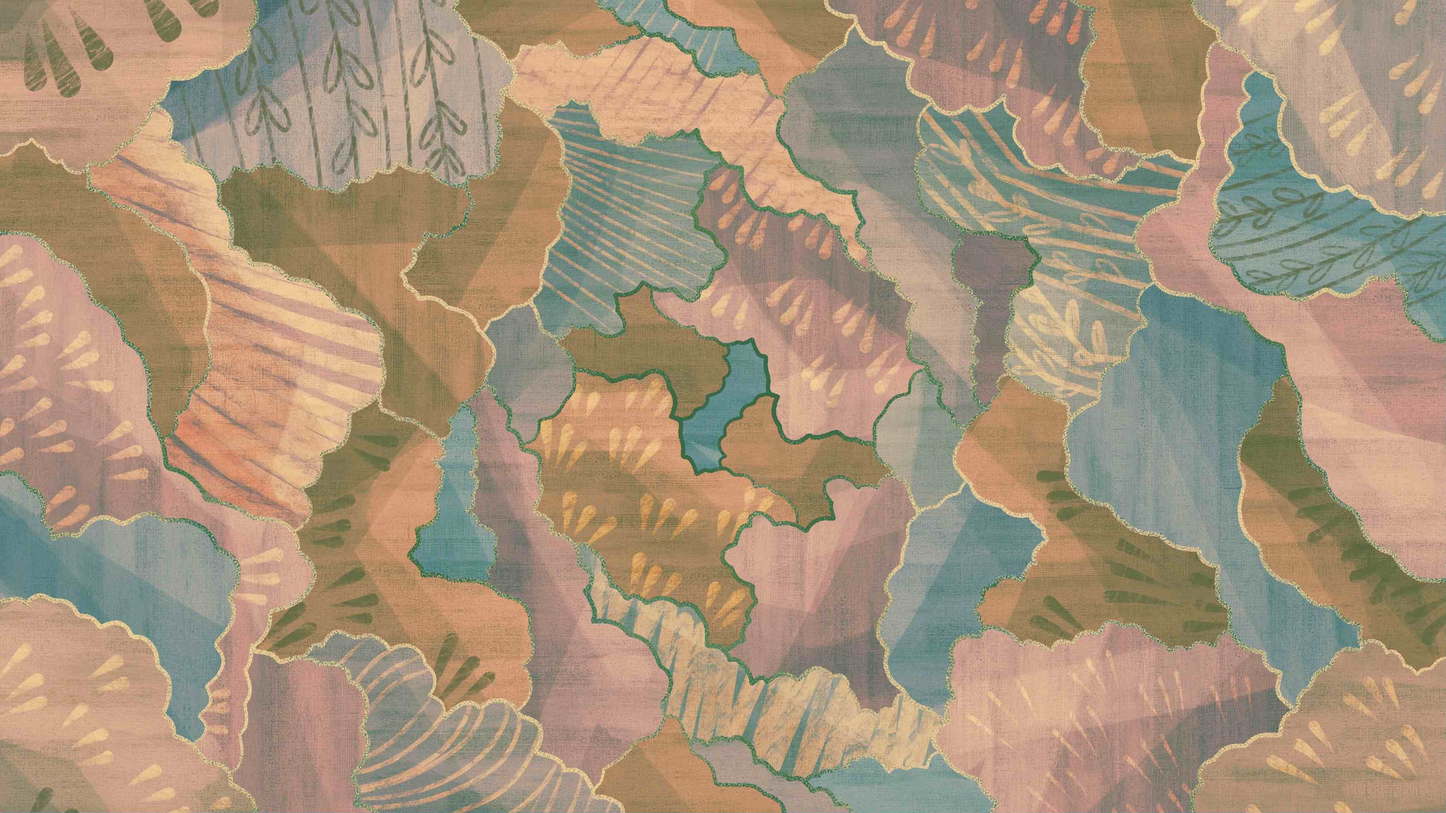
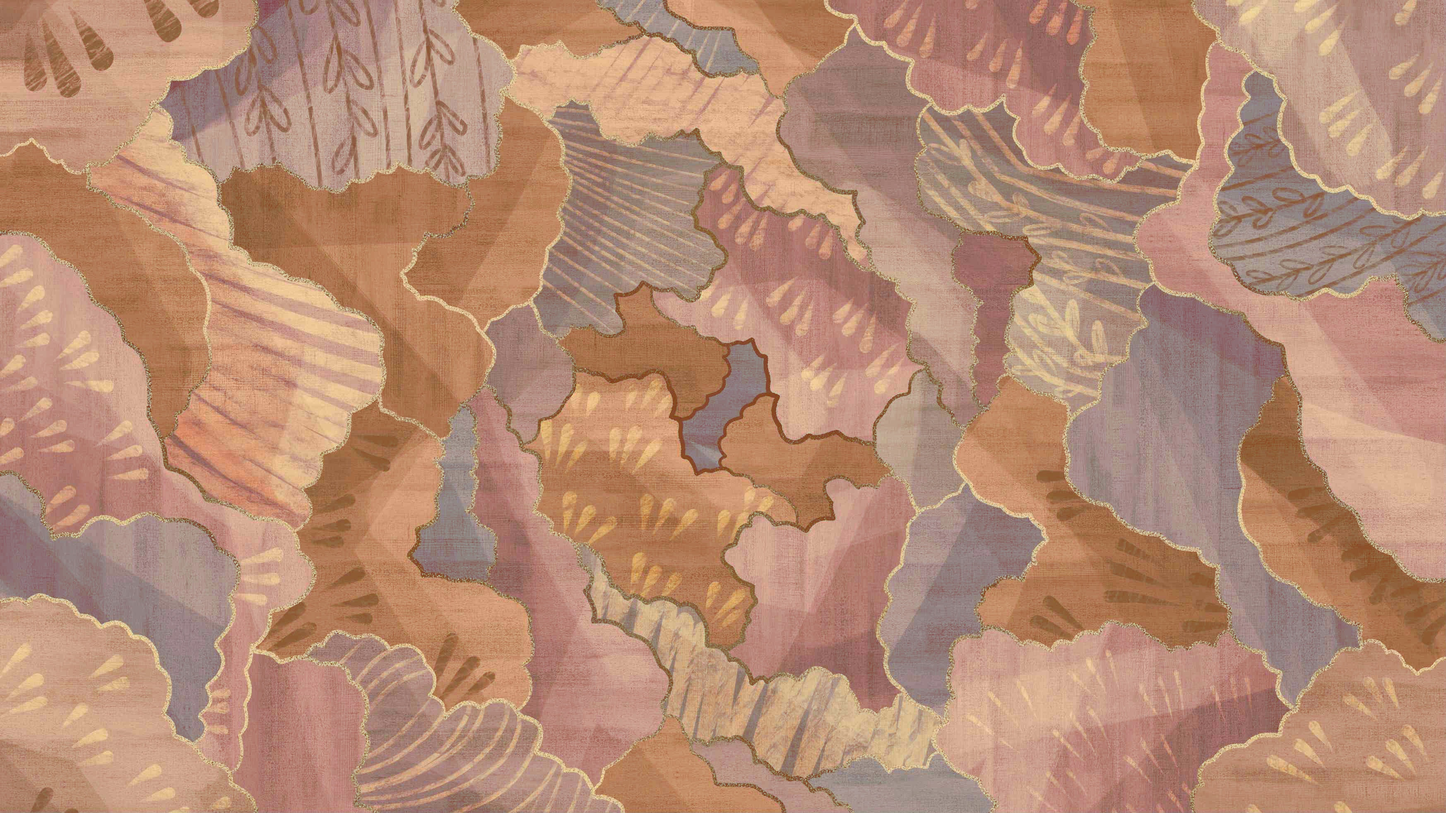
working sections, contact form wip

diff --git a/client/components/ContactForm.tsx b/client/components/ContactForm.tsx
@@ -3,37 +3,47 @@ import { useForm, ValidationError } from '@formspree/react'
 
 export default function ContactForm() {
 	const [state, handleSubmit] = useForm('movajqzq')
-	if (state.succeeded) {
-		return <p>Thanks for joining!</p>
-	}
 	return (
 		<>
-			<form
-				onSubmit={handleSubmit}
-				className={formStyling}
-				action="?"
-				method="POST"
-			>
-				<label htmlFor="email">Your Email Address</label>
-				<input id="email" type="email" name="email" />
-				<ValidationError
-					prefix="Email"
-					field="email"
-					errors={state.errors}
-				/>
+			<div className={sectionStyle}>
+				<img src="/photo_rose.JPG" />
+				<div className={formBoxStyle}>
+					{state.succeeded && (
+						<p>
+							Your message has been sent! A Rose will be in
+							contact with you shortly
+						</p>
+					)}
+					{!state.succeeded && (
+						<form
+							onSubmit={handleSubmit}
+							className={formStyling}
+							action="?"
+							method="POST"
+						>
+							<label htmlFor="email">Your Email Address</label>
+							<input id="email" type="email" name="email" />
+							<ValidationError
+								prefix="Email"
+								field="email"
+								errors={state.errors}
+							/>
 
-				<label>Your Message</label>
-				<textarea id="message" name="message" />
-				<ValidationError
-					prefix="Message"
-					field="message"
-					errors={state.errors}
-				/>
+							<label>Your Message</label>
+							<textarea id="message" name="message" />
+							<ValidationError
+								prefix="Message"
+								field="message"
+								errors={state.errors}
+							/>
 
-				<button type="submit" disabled={state.submitting}>
-					Whoosh!
-				</button>
-			</form>
+							<button type="submit" disabled={state.submitting}>
+								Whoosh!
+							</button>
+						</form>
+					)}
+				</div>
+			</div>
 		</>
 	)
 }
@@ -41,6 +51,25 @@ export default function ContactForm() {
 const formStyling = css({
 	display: 'flex',
 	flexDirection: 'column',
-	maxWidth: '40rem',
+	maxWidth: '50%',
 	padding: '2rem',
+	height: '20rem',
+})
+
+const formBoxStyle = css({
+	border: '1pt solid black',
+	width: '100%',
+	margin: '2rem',
+	display: 'flex',
+	justifyContent: 'center',
+	alignItems: 'center',
+})
+
+const sectionStyle = css({
+	display: 'flex',
+	flexDirection: 'row',
+	'& img': {
+		maxHeight: '20rem',
+		margin: '2rem',
+	},
 })

diff --git a/client/components/ArtBlock.tsx b/client/components/ArtBlock.tsx
@@ -2,31 +2,39 @@ import { css } from '@emotion/css'
 import { Spacing } from '../styles/stylingVariables'
 import { ReactNode } from 'react'
 import React from 'react'
+import { ImageInfo } from './HomePage'
+import ImageTile from './ImageTile'
 
 interface ArtBlockProps {
-	children: ReactNode
+	art: ImageInfo[]
+	backgroundColour: string
 }
 
 //the pictures either say portrait or landscape or square
 //they are set by height but there is more top margin for the landscape / square ones
+// they come through as props
 
-export default function ArtBlock({ children }: ArtBlockProps) {
+export default function ArtBlock({ art, backgroundColour }: ArtBlockProps) {
 	return (
 		<>
-			<div className={styles.all}>
-				{React.Children.map(children, (picture, index) => {
-					if (!picture || typeof picture !== 'object') return null
-					return <div key={index}>{picture}</div>
+			<div className={artTileStyle(backgroundColour)}>
+				{art.map((artwork, i) => {
+					return (
+						<div>
+							<ImageTile art={artwork} />
+						</div>
+					)
 				})}
 			</div>
 		</>
 	)
 }
 
-const styles = {
-	all: css({
-		maxHeight: '15rem',
-		backgroundColor: '#414b6f',
+const artTileStyle = (backgroundColour: string) => {
+	return css({
+		maxHeight: '25rem',
+		// backgroundColor: '#414b6f',
+		backgroundColor: backgroundColour,
 		display: 'flex',
 		justifyContent: 'center',
 		padding: 'auto',
@@ -34,16 +42,16 @@ const styles = {
 		paddingBottom: '1rem',
 		gap: '1rem',
 
-		'& > div': {
+		'& div': {
 			maxWidth: '25%',
 			aspectRatio: '1/1',
 			display: 'flex',
 			justifyContent: 'center',
 			alignItems: 'center',
 		},
-		'& > div > img': {
+		'& img': {
 			maxWidth: '100%',
 			maxHeight: '100%',
 		},
-	}),
+	})
 }

diff --git a/client/components/ImageTile.tsx b/client/components/ImageTile.tsx
@@ -1,33 +1,34 @@
 import { css } from '@emotion/css'
+import { ImageTypes, ImageInfo } from './HomePage'
 
 interface ImageTileProps {
-	url: string
-	type: imageTypes
+	art: ImageInfo
 }
-type imageTypes = 'portrait' | 'landscape' | 'square'
 
-export default function ImageTileProps({ url, type }: ImageTileProps) {
+export default function ImageTileProps({ art }: ImageTileProps) {
 	return (
 		<>
-			<img src={url} className={imageTileStyle(type)} />
+			<img src={art.url} className={imageTileStyle(art.type)} />
 		</>
 	)
 }
-const imageTileStyle = (type: imageTypes) => {
+const imageTileStyle = (type: ImageTypes) => {
 	switch (type) {
-		case 'portrait': {
+		case ImageTypes.portrait: {
 			return css({
-				margin: 'auto',
+				paddingTop: 'auto',
 			})
 		}
-		case 'landscape': {
+		case ImageTypes.landscape: {
 			return css({
-				margin: '1rem auto',
+				paddingTop: '1rem',
+				paddingBottom: '1rem',
 			})
 		}
-		case 'square': {
+		case ImageTypes.square: {
 			return css({
-				margin: '1rem auto',
+				paddingTop: '0.5rem',
+				paddingBottom: '0.5rem',
 			})
 		}
 	}

diff --git a/client/components/HomePage.tsx b/client/components/HomePage.tsx
@@ -11,16 +11,50 @@ const message = (
 	</div>
 )
 
+export enum ImageTypes {
+	'portrait',
+	'landscape',
+	'square',
+}
+
+export type ImageInfo = { url: string; type: ImageTypes }
+
+const artBlock1Art = [
+	{
+		url: '/art_couple.png',
+		type: ImageTypes.portrait,
+	},
+	{
+		url: '/art_sunflowers.png',
+		type: ImageTypes.landscape,
+	},
+	{
+		url: '/art_mushrooms.JPG',
+		type: ImageTypes.square,
+	},
+]
+
+const artBlock2Art = [
+	{
+		url: '/art_bird.png',
+		type: ImageTypes.portrait,
+	},
+	{
+		url: '/art_irritation.png',
+		type: ImageTypes.portrait,
+	},
+	{
+		url: '/art_mermaid.PNG',
+		type: ImageTypes.square,
+	},
+]
+
 export default function HomePage() {
 	return (
 		<>
-			<p>testing this element</p>
 			<CallToAction>{message}</CallToAction>
-			<ArtBlock>
-				<img src="/art_couple.png"/>
-				<img src="/art_sunflowers.png"/>
-				<img src="/art_bird.png"/>
-			</ArtBlock>
+			<ArtBlock art={artBlock1Art} backgroundColour="#414b6f" />
+			<ArtBlock art={artBlock2Art} backgroundColour="#c27653" />
 			<ContactForm />
 		</>
 	)

diff --git a/client/components/CallToAction.tsx b/client/components/CallToAction.tsx
@@ -1,5 +1,6 @@
 import { css } from '@emotion/css'
 import { Spacing } from '../styles/stylingVariables'
+import { colors } from '../styles/colors'
 
 export default function CallToAction(props: React.PropsWithChildren<object>) {
 	// TODO wrap the entire thing in reactRouTer so that we can use USE NAVIGATE
@@ -17,7 +18,6 @@ export default function CallToAction(props: React.PropsWithChildren<object>) {
 
 const styles = {
 	all: css({
-		paddingTop: Spacing.headerHeight,
 		backgroundImage: `url('/background.jpg')`,
 		backgroundSize: 'cover',
 		backgroundPosition: 'center',
@@ -32,7 +32,7 @@ const styles = {
 		alignItems: 'center',
 	}),
 	textBox: css({
-		backgroundColor: '#faf5b4dd',
+		backgroundColor: colors.primaryBackground,
 		padding: '1rem',
 	}),
 }

diff --git a/client/components/Layout.tsx b/client/components/Layout.tsx
@@ -1,13 +1,21 @@
+import { css } from '@emotion/css'
 import Header from './Header'
 import { Outlet } from 'react-router-dom'
+import { Spacing } from '../styles/stylingVariables'
 
 export default function Layout() {
 	return (
 		<>
 			<div className="app">
 				<Header />
-				<Outlet />
+				<div className={style}>
+					<Outlet />
+				</div>
 			</div>
 		</>
 	)
 }
+
+const style = css({
+	paddingTop: Spacing.headerHeight,
+})
